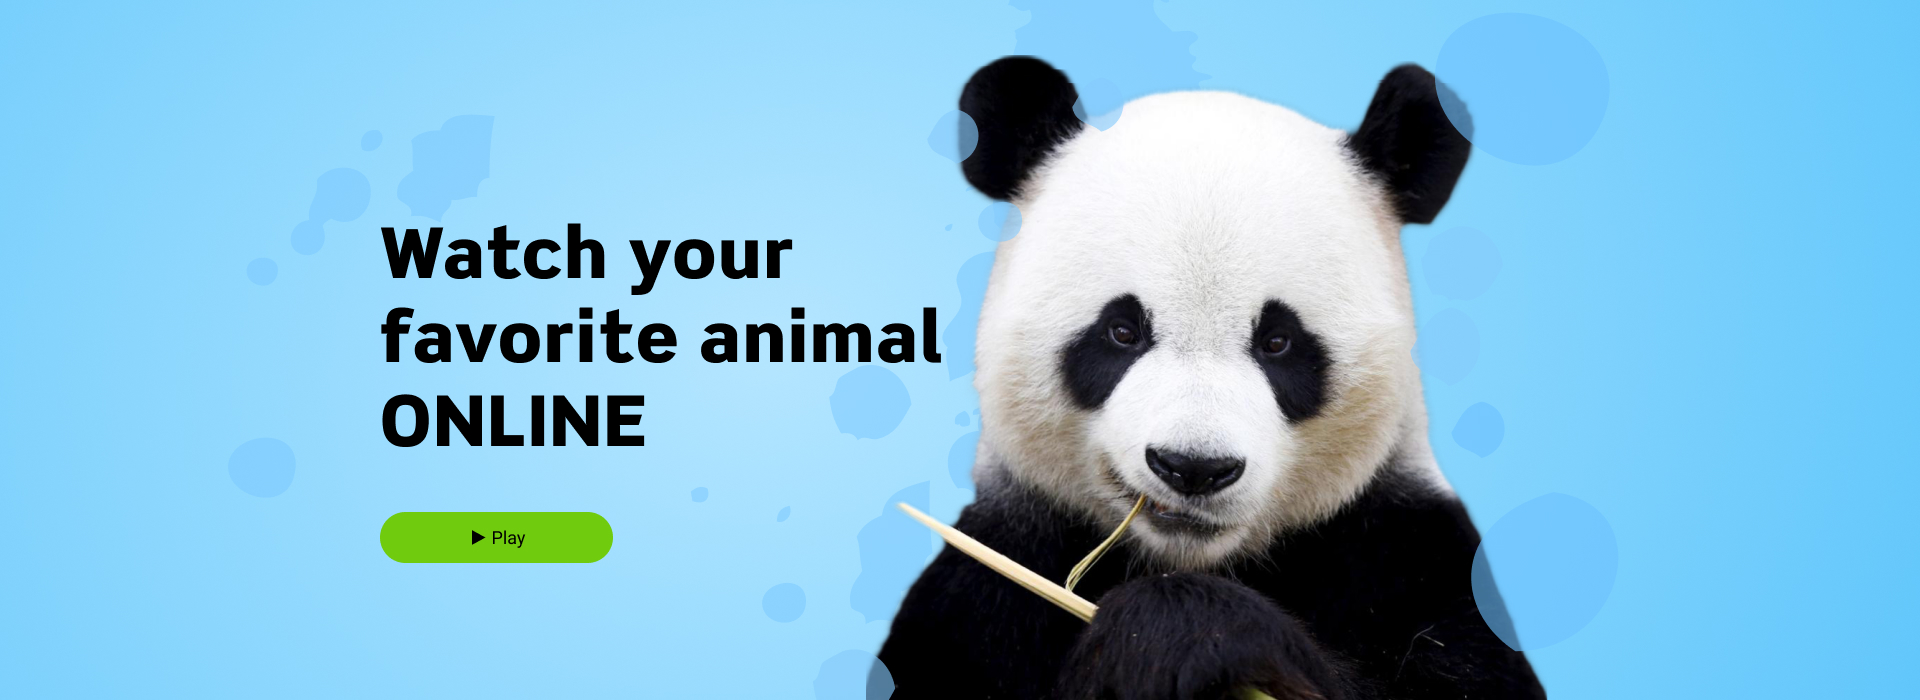
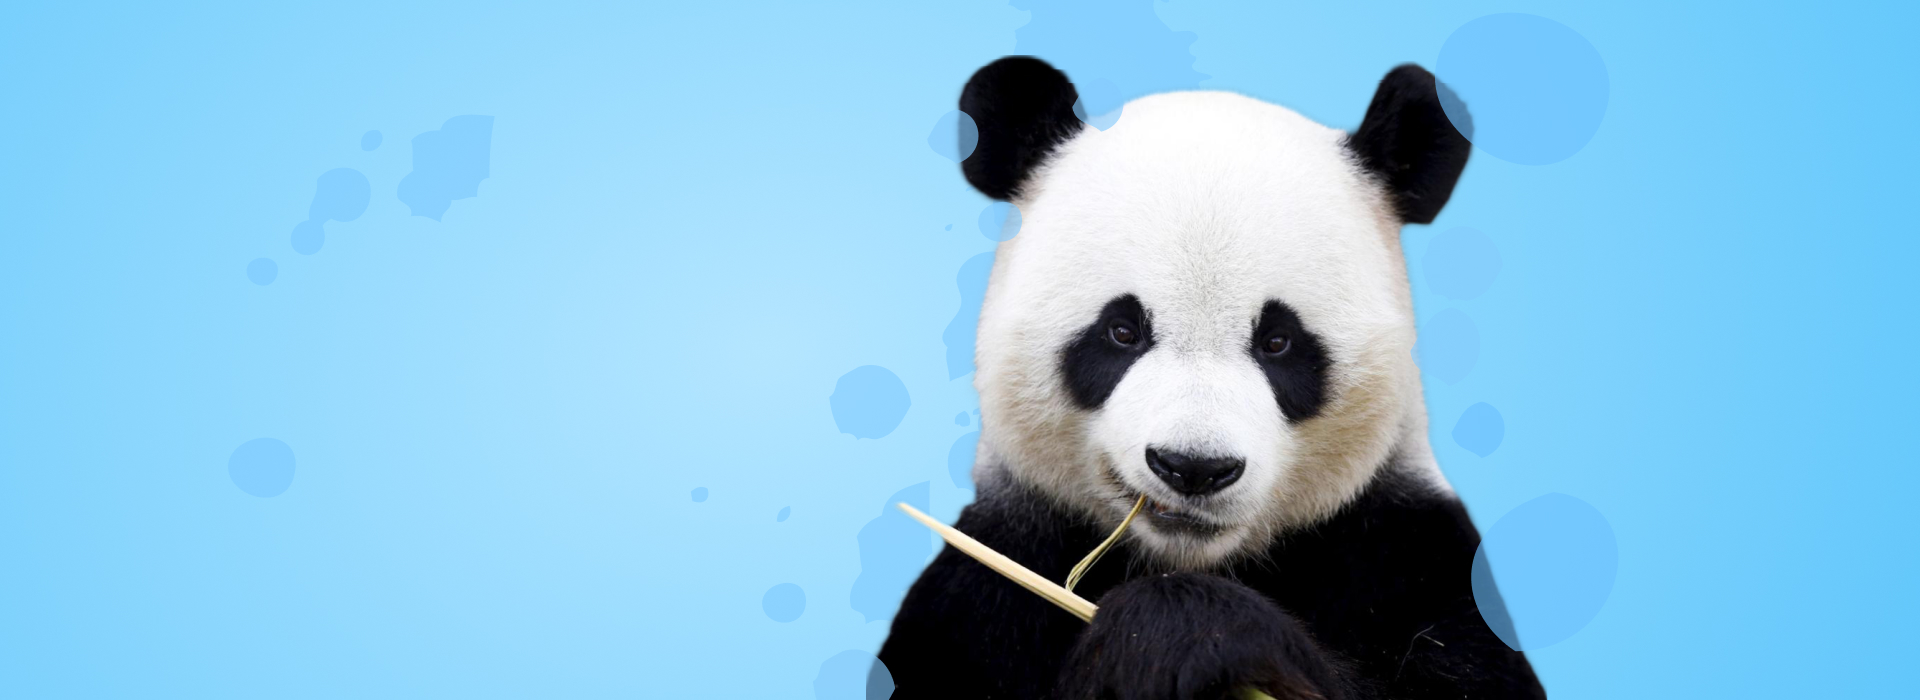
feat: add section favorit-animal

Changed region(s): [[0.1875, 0.42, 0.5, 0.66], [0.1875, 0.33, 0.4375, 0.42], [0.1875, 0.72, 0.3438, 0.81]]

diff --git a/online-zoo/pages/landing/landing-style.css b/online-zoo/pages/landing/landing-style.css
@@ -36,6 +36,16 @@ li {
   background-image: url(../../assets/images/favorite-animal__bg.jpg);
 }
 
+.btn {
+  padding-top: 15px;
+  padding-right: 60px;
+  padding-bottom: 15px;
+  padding-left: 60px;
+  border: none;
+  border-radius: 30px;
+  background-color: #70cb0e;
+}
+
 /* Header */
 .header {
   padding-top: 12px;
@@ -75,4 +85,48 @@ li {
 .header__nav-item--active > .header__nav-link {
   text-shadow: 0px 0px 3px #70cb0e;
   cursor: default;
+}
+
+/* favorite-animal */
+.favorite-animal {
+  margin-top: 130px;
+  padding-bottom: 137px;
+  max-width: 570px;
+}
+
+.favorite-animal__main-title {
+  position: absolute;
+  text-transform: capitalize;
+  z-index: -100;
+}
+
+.favorite-animal__title {
+  margin-bottom: 50px;
+  font-size: 70px;
+  line-height: 84px;
+  letter-spacing: 0.03em;
+}
+
+.favorite-animal__caps {
+  text-transform: uppercase;
+}
+
+.favorite-animal__btn {
+  padding-left: 111px;
+  padding-right: 88px;
+}
+
+.favorite-animal__link {
+  position: relative;
+  font-size: 18px;
+  line-height: 21px;
+}
+
+.favorite-animal__link::before {
+  position: absolute;
+  display: block;
+  content: "";
+  left: -23px;
+  border: 8px solid transparent;
+  border-left: 15px solid #000;
 }

diff --git a/online-zoo/pages/landing/landing-index.html b/online-zoo/pages/landing/landing-index.html
@@ -40,6 +40,16 @@
           </ul>
         </nav>
       </header>
+
+      <section class="favorite-animal">
+        <h1 class="favorite-animal__main-title">Online zoo</h1>
+        <h2 class="favorite-animal__title">Watch your favorite animal <span class="favorite-animal__caps">online</span>
+        </h2>
+
+        <button class="favorite-animal__btn btn">
+          <a class="favorite-animal__link" href="#">Play</a>
+        </button>
+      </section>
     </div>
   </div>
 </body>
